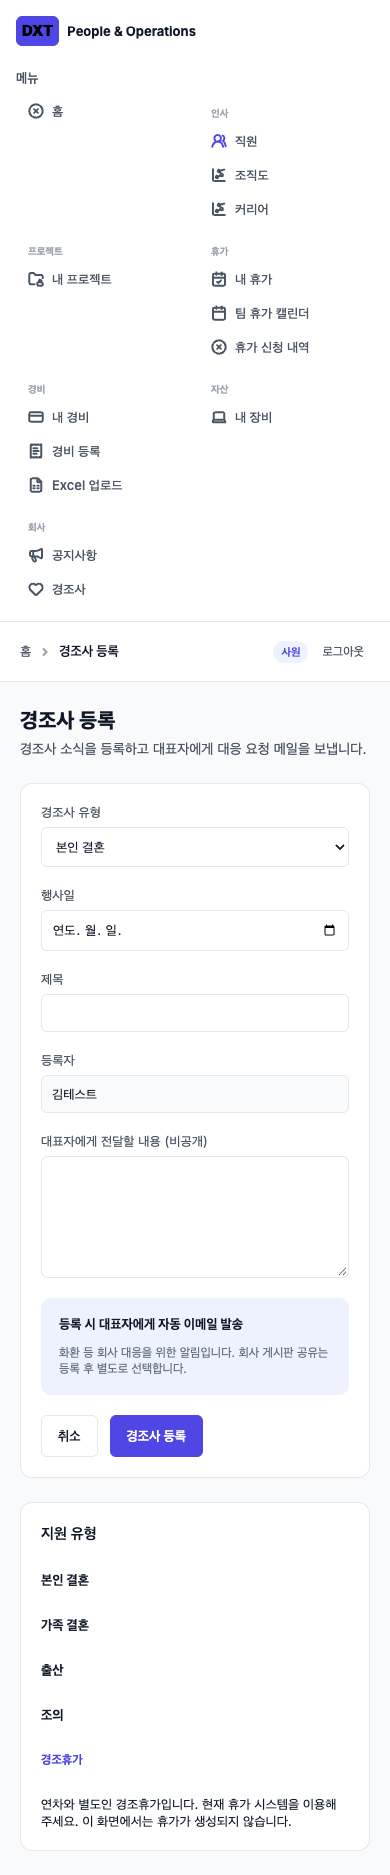
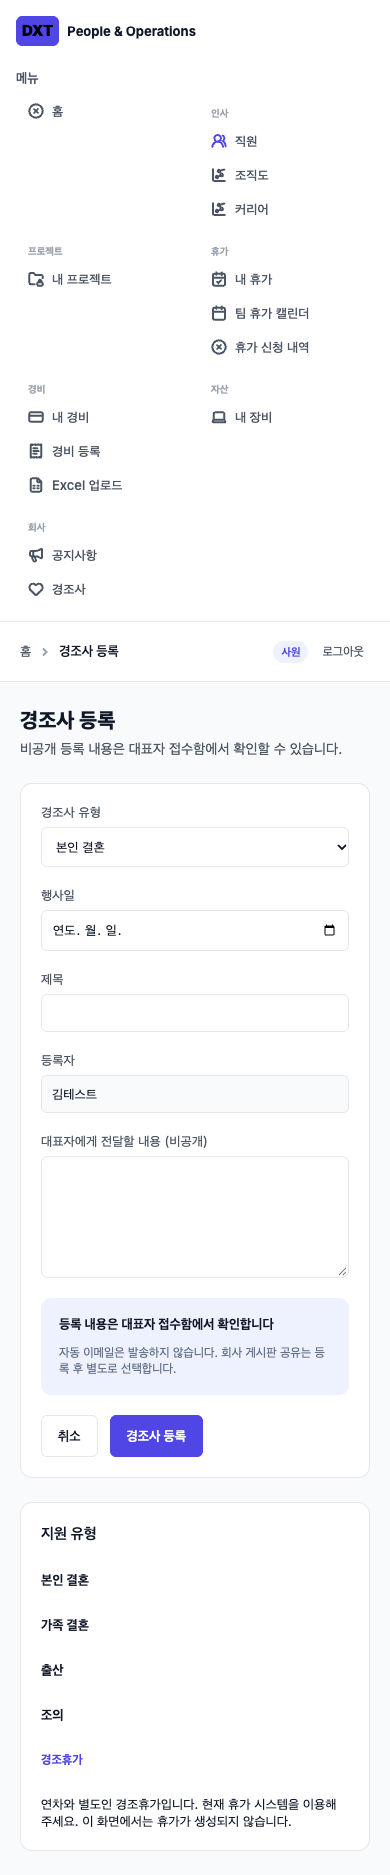
Defer automatic Gmail delivery while preserving Google login

diff --git a/src/components/operations/screens.tsx b/src/components/operations/screens.tsx
@@ -44,11 +44,10 @@ function FamilyGuide(){return <aside className="surface event-guide"><h2>지원 
 export async function FamilyScreen({id,create=false,edit=false,review=false,query,principal}:{id?:string;create?:boolean;edit?:boolean;review?:boolean;query:SearchParams;principal:Principal}){
  const people=await operationPeople(),person=(id:string)=>people.find(p=>p.id===id)?.name||'—';
  if(create||edit){const registration=id?await familyRegistration(id):undefined;const posts=registration?await familyPosts():[];const {data:own}=await(await employeeClient()).rpc('current_employee_id');if(!own) return <section className="surface empty-state"><h1>직원 정보 연결이 필요합니다</h1><p>관리자에게 계정과 직원 정보 연결을 요청해 주세요.</p></section>;
- const notification=registration?await(await employeeClient()).rpc('family_notification_status',{p_id:registration.id}):null;
- return <><Heading title={registration?'내 경조사 등록':'경조사 등록'} description="경조사 소식을 등록하고 대표자에게 대응 요청 메일을 보냅니다."/><Saved query={query}/>{registration&&<p className="asset-notice">대표자 알림: {notification?.data==='SENT'?'발송 완료':notification?.data==='REVIEW'?'발송 확인 필요 · 관리자에게 문의해 주세요':'발송 대기 · 메일 연결 상태에 따라 처리됩니다'}</p>}<div className="operations-columns"><FamilyEditor key={registration?.version||0} record={registration} name={person(own)}/><FamilyGuide/></div>{registration&&<FamilyPublication key={posts.find(p=>p.registration_id===registration.id)?.version||0} id={registration.id} post={posts.find(p=>p.registration_id===registration.id)}/>}</>;
+ return <><Heading title={registration?'내 경조사 등록':'경조사 등록'} description="비공개 등록 내용은 대표자 접수함에서 확인할 수 있습니다."/><Saved query={query}/><div className="operations-columns"><FamilyEditor key={registration?.version||0} record={registration} name={person(own)}/><FamilyGuide/></div>{registration&&<FamilyPublication key={posts.find(p=>p.registration_id===registration.id)?.version||0} id={registration.id} post={posts.find(p=>p.registration_id===registration.id)}/>}</>;
  }
  if(review){const rows=await familyRegistrations(true);if(id){const r=await familyRegistration(id,true);return <><Heading title="대표자 경조사 접수" description="회사 대응을 위한 비공개 등록 내용입니다."/><article className="surface board-detail"><Badge>{EVENT_CATEGORIES[r.category]}</Badge><h2>{r.title}</h2><p>{person(r.employee_id)} · {r.event_date}</p><div className="prose-body">{r.details}</div></article></>;}
  return <><Heading title="대표자 경조사 접수" description="등록자와 대표자만 조회할 수 있습니다."/><section className="company-board">{rows.map(r=><Link key={r.id} className="board-row" href={`/family-events/review/${r.id}`}><h2>{r.title}</h2><small>{person(r.employee_id)} · {r.event_date}</small></Link>)}{!rows.length&&<p className="empty-state">접수된 경조사가 없습니다.</p>}</section></>;}
- const posts=await familyPosts(),own=await familyRegistrations();return <><Heading title="경조사" description="경조사 소식을 등록하고 회사 구성원에게 공유합니다." href="/family-events/new" action="경조사 등록"/><aside className="asset-notice"><strong>경조사 등록 시 대표자에게 이메일이 발송됩니다.</strong><p>회사 대응을 위한 비공개 등록과 게시판 공유는 별도로 관리됩니다.</p></aside><section className="company-board family-board">{posts.length?posts.toSorted((a,b)=>b.event_date.localeCompare(a.event_date)).map(p=><article className="board-row" key={p.registration_id}><div><h2><Badge>{EVENT_CATEGORIES[p.category]}</Badge> {person(p.employee_id)} · {p.title}</h2><div className="prose-body">{p.body}</div></div><small>{p.event_date}</small></article>):<div className="empty-state"><h2>공유된 경조사 소식이 없습니다</h2></div>}</section><section className="surface family-leave"><div><h2>경조휴가 안내</h2><p className="muted">DXT 사칙에 따라 연차와 별도로 신청합니다. 현재 휴가 시스템을 이용해 주세요.</p></div><button className="button" disabled title="휴가 기능은 이번 단계에서 제공하지 않습니다">경조휴가 신청 · 준비중</button></section><section className="surface operations-form"><h2>내 등록 내역 (비공개)</h2>{own.map(r=><Link key={r.id} href={`/family-events/${r.id}/edit`}>{r.title} · {r.event_date}</Link>)}{!own.length&&<p className="muted">등록한 경조사가 없습니다.</p>}{can(principal,'FAMILY_EVENT_REVIEW')&&<Link className="button" href="/family-events/review">대표자 접수함</Link>}</section></>;
+ const posts=await familyPosts(),own=await familyRegistrations();return <><Heading title="경조사" description="경조사 소식을 등록하고 회사 구성원에게 공유합니다." href="/family-events/new" action="경조사 등록"/><aside className="asset-notice"><strong>경조사 등록 내용은 대표자 접수함에서 확인합니다.</strong><p>자동 이메일은 발송하지 않습니다. 비공개 등록과 게시판 공유는 별도로 관리됩니다.</p></aside><section className="company-board family-board">{posts.length?posts.toSorted((a,b)=>b.event_date.localeCompare(a.event_date)).map(p=><article className="board-row" key={p.registration_id}><div><h2><Badge>{EVENT_CATEGORIES[p.category]}</Badge> {person(p.employee_id)} · {p.title}</h2><div className="prose-body">{p.body}</div></div><small>{p.event_date}</small></article>):<div className="empty-state"><h2>공유된 경조사 소식이 없습니다</h2></div>}</section><section className="surface family-leave"><div><h2>경조휴가 안내</h2><p className="muted">DXT 사칙에 따라 연차와 별도로 신청합니다. 현재 휴가 시스템을 이용해 주세요.</p></div><button className="button" disabled title="휴가 기능은 이번 단계에서 제공하지 않습니다">경조휴가 신청 · 준비중</button></section><section className="surface operations-form"><h2>내 등록 내역 (비공개)</h2>{own.map(r=><Link key={r.id} href={`/family-events/${r.id}/edit`}>{r.title} · {r.event_date}</Link>)}{!own.length&&<p className="muted">등록한 경조사가 없습니다.</p>}{can(principal,'FAMILY_EVENT_REVIEW')&&<Link className="button" href="/family-events/review">대표자 접수함</Link>}</section></>;
 }
-export async function BirthdayScreen({query}:{query:SearchParams}){const current=Number(new Intl.DateTimeFormat('en',{timeZone:'Asia/Seoul',year:'numeric'}).format(new Date())),year=typeof query.year==='string'&&/^[1-9]\d{3}$/.test(query.year)&&Number(query.year)>=1900?Number(query.year):current,record=await birthdayTemplate(year);return <><Heading title="생일 메일" description="생일 당일 오전 9시에 본인에게 발송되는 축하 메일 템플릿을 관리합니다."/><Saved query={query}/><aside className="asset-notice"><strong>자동 발송 규칙</strong><p>생일 당일 오전 9시 (한국 시간) · 생일자 본인에게만 발송 · 음력 생일은 지원하지 않음</p></aside><form className="birthday-year"><label htmlFor="template-year">템플릿 연도</label><input id="template-year" name="year" type="number" min={1900} max={9999} defaultValue={year}/><button className="button">연도 선택</button></form><BirthdayEditor key={`${year}:${record?.version||0}`} year={year} record={record}/></>;}
+export async function BirthdayScreen({query}:{query:SearchParams}){const current=Number(new Intl.DateTimeFormat('en',{timeZone:'Asia/Seoul',year:'numeric'}).format(new Date())),year=typeof query.year==='string'&&/^[1-9]\d{3}$/.test(query.year)&&Number(query.year)>=1900?Number(query.year):current,record=await birthdayTemplate(year);return <><Heading title="생일 메일" description="향후 사용할 생일 메일 템플릿을 보관합니다. 현재 자동 발송은 제공하지 않습니다."/><Saved query={query}/><aside className="asset-notice"><strong>자동 발송 중지</strong><p>템플릿을 저장해도 메일은 발송되지 않습니다. 생일 정보와 접근 권한은 유지됩니다.</p></aside><form className="birthday-year"><label htmlFor="template-year">템플릿 연도</label><input id="template-year" name="year" type="number" min={1900} max={9999} defaultValue={year}/><button className="button">연도 선택</button></form><BirthdayEditor key={`${year}:${record?.version||0}`} year={year} record={record}/></>;}

diff --git a/src/components/operations/forms.tsx b/src/components/operations/forms.tsx
@@ -14,6 +14,6 @@ export function CaseControls({record}:{record:OperationCase}){const [state,actio
 export function ResignationReason({id}:{id:string}){const [revealed,setRevealed]=useState<{value?:string;version?:number;error?:string}>({}),[loading,start]=useTransition(),[state,action,pending]=useActionState(saveResignationReason.bind(null,id),{});return <section className="surface operations-form"><h2>대표자 전용 · 퇴사 사유</h2><p className="muted">열람과 수정 이력이 기록됩니다.</p>{revealed.version===undefined?<button className="button" disabled={loading} onClick={()=>start(async()=>setRevealed(await revealResignation(id)))}>퇴사 사유 열람</button>:<form action={action} className="operations-form"><input type="hidden" name="version" value={revealed.version}/><Feedback state={state}/><Field label="퇴사 사유" name="reason" state={state}>{fieldId=><textarea id={fieldId} name="reason" required maxLength={5000} defaultValue={revealed.value}/>}</Field><div className="button-row"><button className="button" type="button" onClick={()=>setRevealed({})}>숨기기</button><button className="button primary" disabled={pending}>사유 저장</button></div></form>}{revealed.error&&<p role="alert" className="form-error">{revealed.error}</p>}</section>;}
 export function ResignationUpload({id}:{id:string}){const [state,action,pending]=useActionState(uploadResignation.bind(null,id),{});return <form action={action} className="operations-form"><Feedback state={state}/><Field label="사직서 첨부" name="document" state={state}>{fieldId=><input id={fieldId} type="file" name="document" accept="application/pdf,image/png,image/jpeg" required/>}</Field><p className="muted">PDF·PNG·JPEG, 최대 10MB. 대표자만 열람할 수 있습니다.</p><button className="button primary" disabled={pending}>사직서 업로드</button></form>;}
 export function AnnouncementEditor({record}:{record?:Announcement}){const [state,action,pending]=useActionState(saveAnnouncement.bind(null,record?.id||null),{});return <form action={action} className="surface operations-form"><input type="hidden" name="version" value={record?.version||0}/><Feedback state={state}/><Field label="제목" name="title" state={state}>{id=><input id={id} name="title" required maxLength={200} defaultValue={record?.title}/>}</Field><Field label="내용" name="body" state={state}>{id=><textarea id={id} name="body" required maxLength={20000} rows={12} defaultValue={record?.body}/>}</Field><label className="check-line"><input type="checkbox" name="publish" defaultChecked={Boolean(record?.published_at)}/>회사 게시판에 게시</label><div className="button-row"><Link className="button" href="/announcements">취소</Link><button className="button primary" disabled={pending}>공지 저장</button></div></form>;}
-export function FamilyEditor({record,name}:{record?:FamilyRegistration;name:string}){const [state,action,pending]=useActionState(saveFamily.bind(null,record?.id||null),{});return <form action={action} className="surface operations-form"><input type="hidden" name="version" value={record?.version||0}/><Feedback state={state}/><Field label="경조사 유형" name="category" state={state}>{id=><select id={id} name="category" defaultValue={record?.category||'OWN_MARRIAGE'}>{Object.entries(EVENT_CATEGORIES).map(([v,l])=><option key={v} value={v}>{l}</option>)}</select>}</Field><Field label="행사일" name="event_date" state={state}>{id=><input id={id} name="event_date" type="date" required defaultValue={record?.event_date}/>}</Field><Field label="제목" name="title" state={state}>{id=><input id={id} name="title" maxLength={200} required defaultValue={record?.title}/>}</Field><Field label="등록자" name="author" state={state}>{id=><input id={id} readOnly value={name}/>}</Field><Field label="대표자에게 전달할 내용 (비공개)" name="details" state={state}>{id=><textarea id={id} name="details" maxLength={5000} required rows={6} defaultValue={record?.details}/>}</Field><aside className="asset-notice"><strong>등록 시 대표자에게 자동 이메일 발송</strong><p>화환 등 회사 대응을 위한 알림입니다. 회사 게시판 공유는 등록 후 별도로 선택합니다.</p></aside><div className="button-row"><Link className="button" href="/family-events">취소</Link><button className="button primary" disabled={pending}>{record?'등록 내용 저장':'경조사 등록'}</button></div></form>;}
+export function FamilyEditor({record,name}:{record?:FamilyRegistration;name:string}){const [state,action,pending]=useActionState(saveFamily.bind(null,record?.id||null),{});return <form action={action} className="surface operations-form"><input type="hidden" name="version" value={record?.version||0}/><Feedback state={state}/><Field label="경조사 유형" name="category" state={state}>{id=><select id={id} name="category" defaultValue={record?.category||'OWN_MARRIAGE'}>{Object.entries(EVENT_CATEGORIES).map(([v,l])=><option key={v} value={v}>{l}</option>)}</select>}</Field><Field label="행사일" name="event_date" state={state}>{id=><input id={id} name="event_date" type="date" required defaultValue={record?.event_date}/>}</Field><Field label="제목" name="title" state={state}>{id=><input id={id} name="title" maxLength={200} required defaultValue={record?.title}/>}</Field><Field label="등록자" name="author" state={state}>{id=><input id={id} readOnly value={name}/>}</Field><Field label="대표자에게 전달할 내용 (비공개)" name="details" state={state}>{id=><textarea id={id} name="details" maxLength={5000} required rows={6} defaultValue={record?.details}/>}</Field><aside className="asset-notice"><strong>등록 내용은 대표자 접수함에서 확인합니다</strong><p>자동 이메일은 발송하지 않습니다. 회사 게시판 공유는 등록 후 별도로 선택합니다.</p></aside><div className="button-row"><Link className="button" href="/family-events">취소</Link><button className="button primary" disabled={pending}>{record?'등록 내용 저장':'경조사 등록'}</button></div></form>;}
 export function FamilyPublication({id,post}:{id:string;post?:FamilyPost}){const [state,action,pending]=useActionState(publishFamily.bind(null,id),{});return <form action={action} className="surface operations-form"><h2>회사 게시판 공유 (선택)</h2><p className="muted">아래 내용만 회사 구성원에게 공개됩니다. 비공개 등록 내용은 자동으로 복사되지 않습니다.</p><input type="hidden" name="version" value={post?.version||0}/><Feedback state={state}/><Field label="게시판 제목" name="board_title" state={state}>{fieldId=><input id={fieldId} name="board_title" maxLength={200} defaultValue={post?.title}/>}</Field><Field label="게시판 내용" name="board_body" state={state}>{fieldId=><textarea id={fieldId} name="board_body" maxLength={5000} rows={5} defaultValue={post?.body}/>}</Field><div className="button-row"><button className="button primary" name="publish" value="yes" disabled={pending}>게시판에 공유</button>{post&&<button className="button" name="publish" value="no" disabled={pending}>게시 내리기</button>}</div></form>;}
 export function BirthdayEditor({year,record}:{year:number;record?:BirthdayTemplate}){const [state,action,pending]=useActionState(saveBirthdayTemplate,{}),[subject,setSubject]=useState(record?.subject||DEFAULT_SUBJECT),[body,setBody]=useState(record?.body||DEFAULT_BODY);return <div className="operations-columns birthday-columns"><form id="birthday-template" action={action} className="surface operations-form"><input type="hidden" name="year" value={year}/><input type="hidden" name="version" value={record?.version||0}/><Feedback state={state}/><Field label="메일 제목" name="subject" state={state}>{id=><input id={id} name="subject" required maxLength={200} value={subject} onChange={e=>setSubject(e.target.value)}/>}</Field><Field label="메일 본문" name="body" state={state}>{id=><textarea id={id} name="body" required maxLength={10000} rows={12} value={body} onChange={e=>setBody(e.target.value)}/>}</Field><p className="muted">사용 가능 변수: {'{{name}}, {{birthday}}'} (월-일)</p><button className="button primary" disabled={pending}>템플릿 저장</button></form><aside className="surface mail-preview"><h2>메일 미리보기</h2><p className="muted">To. birthday@example.test · 미리보기용 예시</p><h3>{renderTemplate(subject,'김서연','10-05')}</h3><div className="prose-body">{renderTemplate(body,'김서연','10-05')}</div></aside></div>;}

diff --git a/tests/e2e/operations.spec.ts b/tests/e2e/operations.spec.ts
@@ -21,13 +21,13 @@ test('CEO audited reveal and private file upload/download; Admin finishes despit
 test('announcements draft and explicit publication; registration and board content remain separate',async({page,context})=>{
  await loginAs(context,'admin');await page.goto('/announcements/new');await page.getByLabel('제목',{exact:true}).fill('Browser announcement');await page.getByLabel('내용',{exact:true}).fill('<script>visible text only</script>');await page.getByRole('button',{name:'공지 저장'}).click();await expect(page.getByRole('status')).toHaveText('저장했습니다.');const announcement=new URL(page.url()).pathname;
  await loginAs(context,'employee');expect((await page.goto(announcement))!.status()).toBe(404);await loginAs(context,'admin');await page.goto(announcement+'/edit');await page.getByLabel('회사 게시판에 게시').check();await page.getByRole('button',{name:'공지 저장'}).click();await expect(page.getByRole('status')).toHaveText('저장했습니다.');await loginAs(context,'employee');await page.goto(announcement);await expect(page.getByText('<script>visible text only</script>',{exact:true})).toBeVisible();expect((await page.goto(announcement+'/edit'))!.status()).toBe(404);
- await page.goto('/family-events/new');await page.getByLabel('행사일').fill('2026-10-10');await page.getByLabel('제목',{exact:true}).fill('PRIVATE browser event');await page.getByLabel('대표자에게 전달할 내용 (비공개)').fill('PRIVATE browser venue and contact');await page.getByRole('button',{name:'경조사 등록',exact:true}).click();await expect(page.getByRole('status')).toHaveText('저장했습니다.');const own=new URL(page.url()).pathname;await expect(page.getByText(/대표자 알림: 발송 대기/)).toBeVisible();await expect(page.getByLabel('게시판 제목')).toHaveValue('');await expect(page.getByLabel('게시판 내용')).toHaveValue('');await page.getByLabel('게시판 제목').fill('Public browser event');await page.getByLabel('게시판 내용').fill('Public congratulations');await page.getByRole('button',{name:'게시판에 공유',exact:true}).click();await expect(page.locator('form').filter({has:page.getByLabel('게시판 제목')}).locator('input[name=version]')).toHaveValue('1');
+ await page.goto('/family-events/new');await page.getByLabel('행사일').fill('2026-10-10');await page.getByLabel('제목',{exact:true}).fill('PRIVATE browser event');await page.getByLabel('대표자에게 전달할 내용 (비공개)').fill('PRIVATE browser venue and contact');await page.getByRole('button',{name:'경조사 등록',exact:true}).click();await expect(page.getByRole('status')).toHaveText('저장했습니다.');const own=new URL(page.url()).pathname;await expect(page.getByText(/자동 이메일은 발송하지 않습니다/)).toBeVisible();await expect(page.getByLabel('게시판 제목')).toHaveValue('');await expect(page.getByLabel('게시판 내용')).toHaveValue('');await page.getByLabel('게시판 제목').fill('Public browser event');await page.getByLabel('게시판 내용').fill('Public congratulations');await page.getByRole('button',{name:'게시판에 공유',exact:true}).click();await expect(page.locator('form').filter({has:page.getByLabel('게시판 제목')}).locator('input[name=version]')).toHaveValue('1');
  await loginAs(context,'expense');const board=await page.goto('/family-events');expect(await board!.text()).not.toContain('PRIVATE browser');await expect(page.getByText('Public congratulations',{exact:true})).toBeVisible();expect((await page.goto(own))!.status()).toBe(404);
  await loginAs(context,'employee');await page.goto(own);await page.getByRole('button',{name:'게시 내리기'}).click();await expect(page.getByLabel('게시판 제목')).toHaveValue('');await page.goto('/family-events');await expect(page.getByText('Public congratulations',{exact:true})).toHaveCount(0);
 });
-test('birthday yearly template preview, saved content and secured cron fail safely without Gmail credentials',async({page,context})=>{
- await loginAs(context,'admin');await page.goto('/admin/settings/birthday-email?year=2027');await page.getByLabel('메일 제목').fill('{{name}}님, 생일 축하합니다');await page.getByLabel('메일 본문').fill('{{birthday}} 오늘 즐거운 하루 보내세요.');await expect(page.locator('.mail-preview')).toContainText('김서연님, 생일 축하합니다');await expect(page.locator('.mail-preview')).toContainText('10-05 오늘');await page.getByRole('button',{name:'템플릿 저장'}).click();await expect(page.locator('#birthday-template input[name=version]')).toHaveValue('1');await page.reload();await expect(page.getByLabel('메일 제목')).toHaveValue('{{name}}님, 생일 축하합니다');
- expect((await context.request.get('/api/cron/company-mail')).status()).toBe(401);expect((await context.request.get('/api/cron/company-mail?secret=test-cron-secret-at-least-32-characters-long')).status()).toBe(401);const result=await context.request.get('/api/cron/company-mail',{headers:{Authorization:'Bearer test-cron-secret-at-least-32-characters-long'}});expect(result.status()).toBe(503);expect(await result.text()).not.toContain('PRIVATE');
+test('birthday yearly template preview, saved content and retired cron stay inactive without Gmail credentials',async({page,context})=>{
+ await loginAs(context,'admin');await page.goto('/admin/settings/birthday-email?year=2027');await expect(page.getByText('자동 발송 중지',{exact:true})).toBeVisible();await page.getByLabel('메일 제목').fill('{{name}}님, 생일 축하합니다');await page.getByLabel('메일 본문').fill('{{birthday}} 오늘 즐거운 하루 보내세요.');await expect(page.locator('.mail-preview')).toContainText('김서연님, 생일 축하합니다');await expect(page.locator('.mail-preview')).toContainText('10-05 오늘');await page.getByRole('button',{name:'템플릿 저장'}).click();await expect(page.locator('#birthday-template input[name=version]')).toHaveValue('1');await page.reload();await expect(page.getByLabel('메일 제목')).toHaveValue('{{name}}님, 생일 축하합니다');
+ expect((await context.request.get('/api/cron/company-mail')).status()).toBe(410);expect((await context.request.get('/api/cron/company-mail?secret=test-cron-secret-at-least-32-characters-long')).status()).toBe(410);const result=await context.request.get('/api/cron/company-mail',{headers:{Authorization:'Bearer test-cron-secret-at-least-32-characters-long'}});expect(result.status()).toBe(410);expect(await result.text()).not.toContain('PRIVATE');
 });
 test('private operations deny forged URLs, RSC, documents, RPCs and replayed server actions',async({page,context})=>{
  for(const role of ['employee','leader','expense','it','division','admin','designated']){

diff --git a/tests/operations.test.ts b/tests/operations.test.ts
@@ -73,7 +73,7 @@ function mailStore(db:Awaited<ReturnType<typeof operationsDatabase>>):MailStore{
 const config={clientId:'test',clientSecret:'test',refreshToken:'test',sender:'shared@example.test'};
 const fakeMail=(sent:string[],fail=false):typeof fetch=>async(input,init)=>{if(String(input).includes('oauth2'))return Response.json({access_token:'test-token'});const raw=JSON.parse(String(init?.body)).raw;sent.push(Buffer.from(raw,'base64url').toString());if(fail)throw new Error('Ambiguous network timeout');return Response.json({id:'test-message-'+sent.length});};
 
-test('birthday/calendar scope, 09:00 timing, CEO-only family routing and duplicate job execution',async()=>{const db=await operationsDatabase();try{
+test('birthday/calendar scope, 09:00 timing, CEO-only family routing and duplicate job execution',async()=>{const db=await operationsDatabase({dormantMail:true});try{
  await db.exec("create or replace function company_mail_now() returns timestamptz language sql stable as $$select '2026-01-02T00:00:00Z'::timestamptz$$;");
  await asUser(db,'admin',tx=>tx.query("select save_birthday_template(2026,'Happy {{name}}','Birthday {{birthday}}',0)"));
  for(const role of ['employee','it','expense','leader','division']){
@@ -93,7 +93,7 @@ test('birthday/calendar scope, 09:00 timing, CEO-only family routing and duplica
  assert.equal((await asUser(db,'employee',tx=>tx.query<{value:string}>('select family_notification_status($1) value',[familyId]))).rows[0].value,'SENT');
  }finally{await db.close();}});
 
-test('mail unavailable stays pending; concurrent claims, ambiguous sends and provider failures cannot duplicate',async()=>{const db=await operationsDatabase();try{
+test('mail unavailable stays pending; concurrent claims, ambiguous sends and provider failures cannot duplicate',async()=>{const db=await operationsDatabase({dormantMail:true});try{
  const store=mailStore(db),sent:string[]=[];
  assert.equal((await dispatchMail(store,undefined,fakeMail(sent),familyId)).configured,false);assert.equal(sent.length,0);
  assert.equal((await db.query<{state:string}>('select state from company_mail_delivery')).rows[0].state,'PENDING');
@@ -107,7 +107,7 @@ test('mail unavailable stays pending; concurrent claims, ambiguous sends and pro
  const claim=claims.find(Boolean)!;await store.finish(claim,'message-2',false);await assert.rejects(store.finish(claim,'message-2',false));
  }finally{await db.close();}});
 
-test('scheduler is not early, excludes inactive/future/non-birthday recipients and indexes only month/day',async()=>{const db=await operationsDatabase();try{
+test('scheduler is not early, excludes inactive/future/non-birthday recipients and indexes only month/day',async()=>{const db=await operationsDatabase({dormantMail:true});try{
  await asUser(db,'admin',tx=>tx.query("select save_birthday_template(2026,'Hello {{name}}','Birthday {{birthday}}',0)"));
  await db.exec("create or replace function company_mail_now() returns timestamptz language sql stable as $$select '2026-01-01T23:59:00Z'::timestamptz$$;");
  await asService(db,tx=>tx.query('select enqueue_company_mail(null,true)'));assert.equal((await db.query("select * from company_mail_delivery where kind='BIRTHDAY'")).rows.length,0);
@@ -149,7 +149,7 @@ test('long Unicode mail subjects preserve text with bounded MIME headers',()=>{
 });
 
 
-test('private CEO mail ignores Admin-editable profile addresses and requires verified auth identity',async()=>{const db=await operationsDatabase();try{
+test('private CEO mail ignores Admin-editable profile addresses and requires verified auth identity',async()=>{const db=await operationsDatabase({dormantMail:true});try{
  const profile={name:'대표자',company_email:'redirected@example.test',title:'운영',hire_date:'2025-01-01',employment_status:'ACTIVE',roles:['EMPLOYEE']};
  await asUser(db,'admin',tx=>tx.query('select save_employee_with_birthday($1,$2,1,null,false,null,null,null)',[ceoEmployeeId,profile]));
  await assert.rejects(asUser(db,'admin',tx=>tx.query('update auth.users set email=$1 where id=$2',[profile.company_email,idFor('ceo')])));
@@ -162,7 +162,7 @@ test('private CEO mail ignores Admin-editable profile addresses and requires ver
  }finally{await db.close();}});
 
 
-test('birthday transport uses verified identity despite forged Admin profile fields',async()=>{const db=await operationsDatabase();try{
+test('birthday transport uses verified identity despite forged Admin profile fields',async()=>{const db=await operationsDatabase({dormantMail:true});try{
  await db.exec("create or replace function company_mail_now() returns timestamptz language sql stable as $$select '2026-01-02T00:00:00Z'::timestamptz$$;");
  await asUser(db,'admin',tx=>tx.query("select save_birthday_template(2026,'Happy {{name}}','Birthday {{birthday}}',0)"));
  const profile={name:'김테스트',company_email:'attacker@example.test',email:'attacker@example.test',auth_user_id:idFor('admin'),title:'개발자',hire_date:'2025-01-02',employment_status:'ACTIVE',roles:['EMPLOYEE']};
@@ -177,7 +177,7 @@ test('birthday transport uses verified identity despite forged Admin profile fie
  assert.ok(sent.every(m=>!m.includes(profile.company_email)));
  }finally{await db.close();}});
 
-test('ineligible birthday identities are cancelled before any transport claim',async()=>{const db=await operationsDatabase();try{
+test('ineligible birthday identities are cancelled before any transport claim',async()=>{const db=await operationsDatabase({dormantMail:true});try{
  await db.exec("create or replace function company_mail_now() returns timestamptz language sql stable as $$select '2026-01-02T00:00:00Z'::timestamptz$$;");
  await asUser(db,'admin',tx=>tx.query("select save_birthday_template(2026,'Happy {{name}}','Birthday {{birthday}}',0)"));
  // Isolate birthdays; mutate eligibility after enqueue to cover stale pending deliveries.

diff --git a/tests/operations-fixture.ts b/tests/operations-fixture.ts
@@ -11,7 +11,10 @@ export const familyId='a3000000-0000-4000-8000-000000000001',otherFamilyId='a300
 export const birthdayDeliveryEmail='verified-employee@example.test';
 export const ceoDeliveryEmail='verified-ceo@example.test';
 export const resignationReason='CEO-ONLY resignation reason fixture',letter='%PDF-1.4 CEO-ONLY LETTER';
-export async function operationsDatabase(){const db=await assetDatabase();await db.exec("alter table auth.users add column email text, add column email_confirmed_at timestamptz;");await db.query('update auth.users set email=$1,email_confirmed_at=now() where id=$2',[ceoDeliveryEmail,idFor('ceo')]);await db.query('update auth.users set email=$1,email_confirmed_at=now() where id=$2',[birthdayDeliveryEmail,idFor('employee')]);await db.exec(readFileSync('supabase/migrations/202610010008_operations.sql','utf8'));await db.exec(readFileSync('supabase/migrations/202610040009_verified_ceo_mail.sql','utf8'));await db.exec(readFileSync('supabase/migrations/202610040010_verified_mail_recipients.sql','utf8'));await db.exec('alter role service_role bypassrls; grant usage on schema storage to service_role; grant select on storage.objects to service_role;');
+export async function operationsDatabase(options:{dormantMail?:boolean}={}){const db=await assetDatabase();await db.exec("alter table auth.users add column email text, add column email_confirmed_at timestamptz;");await db.query('update auth.users set email=$1,email_confirmed_at=now() where id=$2',[ceoDeliveryEmail,idFor('ceo')]);await db.query('update auth.users set email=$1,email_confirmed_at=now() where id=$2',[birthdayDeliveryEmail,idFor('employee')]);await db.exec(readFileSync('supabase/migrations/202610010008_operations.sql','utf8'));await db.exec(readFileSync('supabase/migrations/202610040009_verified_ceo_mail.sql','utf8'));await db.exec(readFileSync('supabase/migrations/202610040010_verified_mail_recipients.sql','utf8'));await db.exec(readFileSync('supabase/migrations/202610060011_defer_automatic_mail.sql','utf8'));
+ // Explicit isolated-test reactivation keeps dormant recipient/idempotency regressions exercised.
+ if(options.dormantMail)await db.exec('grant execute on function public.enqueue_company_mail(uuid,boolean),public.claim_company_mail(uuid) to service_role;');
+ await db.exec('alter role service_role bypassrls; grant usage on schema storage to service_role; grant select on storage.objects to service_role;');
  await db.transaction(async tx=>{for(const [id,name,auth] of [[departingId,'퇴사예정자',null],[ceoEmployeeId,'대표자',idFor('ceo')]]){await tx.query("insert into employee(id,name,company_email,title,hire_date,auth_user_id) values($1,$2,$3,'운영','2025-01-01',$4)",[id,name,`${id}@example.test`,auth]);await tx.query("insert into employee_role values($1,'EMPLOYEE')",[id]);}});
  await asUser(db,'admin',async tx=>{await tx.query("select start_operation($1,'onboarding',$2,null)",[onboardingId,personId]);await tx.query("select start_operation($1,'offboarding',$2,expense_today())",[offboardingId,departingId]);await tx.query('select save_announcement($1,$2,$3,true,0)',[announcementId,'2026년 하반기 워크숍 일정 안내','10월 워크숍 일정과 준비사항을 안내드립니다.']);await tx.query('select save_announcement($1,$2,$3,false,0)',[draftId,'ADMIN-ONLY draft title','ADMIN-ONLY unpublished body']);});
  await asUser(db,'it',tx=>tx.query('select save_asset($1,$2,0)',['90000000-0000-4000-8000-000000000003',{type:'MONITOR',manufacturer:'Dell',model:'미반납 모니터',serial_number:'OFFBOARD-UNRETURNED',status:'IN_USE',current_holder_id:departingId}]));

diff --git a/src/app/actions/operations.ts b/src/app/actions/operations.ts
@@ -8,7 +8,6 @@ import { isUuid,versionFrom,ValidationError } from '@/lib/employees/validation';
 import { encryptHr,decryptHr } from '@/lib/employees/crypto-server';
 import { field,uuid,dateInput,taskInput,familyInput,templateInput } from '@/lib/operations/validation';
 import { operationCapability,type OperationKind } from '@/lib/operations/types';
-import { runCompanyMail } from '@/lib/operations/mail-server';
 import type { FormState } from '@/lib/employees/types';
 function assertId(id:string){if(!isUuid(id))notFound();}
 function assertKind(kind:string):asserts kind is OperationKind{if(kind!=='onboarding'&&kind!=='offboarding')notFound();}
@@ -26,8 +25,7 @@ export async function uploadResignation(id:string,_state:FormState,form:FormData
  }catch(error){return failure(error);}revalidatePath('/admin/offboarding/'+id);redirect(`/admin/offboarding/${id}?saved=1`);}
 export async function saveAnnouncement(id:string|null,_state:FormState,form:FormData):Promise<FormState>{await requireCapability('ANNOUNCEMENT_MANAGE');if(id)assertId(id);const recordId=id||randomUUID();try{await rpc('save_announcement',{p_id:recordId,p_title:field(form,'title',200),p_body:field(form,'body',20000),p_publish:form.get('publish')==='on',p_version:versionFrom(form)});}catch(error){return failure(error);}revalidatePath('/announcements');redirect(`/announcements/${recordId}?saved=1`);}
 export async function saveFamily(id:string|null,_state:FormState,form:FormData):Promise<FormState>{await requireCapability('EMPLOYEE_ACCESS');if(id)assertId(id);const recordId=id||randomUUID();try{await rpc('save_family_registration',{p_id:recordId,...familyInput(form),p_version:versionFrom(form)});}catch(error){return failure(error);}
- // Registration stays durable if mail credentials are absent. No private input is logged.
- if(!id)try{await runCompanyMail(recordId);}catch{/* Cron retries only unclaimed pending notifications. */}
+ // Issue #15: registration is independent of deferred automatic mail.
  revalidatePath('/family-events');redirect(`/family-events/${recordId}/edit?saved=1`);
 }
 export async function publishFamily(id:string,_state:FormState,form:FormData):Promise<FormState>{await requireCapability('EMPLOYEE_ACCESS');assertId(id);const publish=form.get('publish')==='yes';try{await rpc('publish_family_post',{p_id:id,p_title:field(form,'board_title',200,publish),p_body:field(form,'board_body',5000,publish),p_publish:publish,p_version:versionFrom(form)});}catch(error){return failure(error);}revalidatePath('/family-events');redirect(`/family-events/${id}/edit?saved=1`);}

diff --git a/tests/deferred-mail.test.ts b/tests/deferred-mail.test.ts
@@ -1,0 +1,35 @@
+import test from 'node:test';
+import assert from 'node:assert/strict';
+import { readFileSync } from 'node:fs';
+import { execFileSync } from 'node:child_process';
+import { operationsDatabase,asService,familyId } from './operations-fixture';
+import { asUser } from './domain-fixture';
+
+test('active schema rejects mail enqueue/claim even with service credentials and preserves registrations',async()=>{
+ const db=await operationsDatabase();try{
+  for(const sql of ['select enqueue_company_mail(null,true)','select claim_company_mail(null)']){
+   await assert.rejects(asService(db,tx=>tx.query(sql)),/permission denied/);
+   for(const role of ['employee','admin','ceo'])await assert.rejects(asUser(db,role,tx=>tx.query(sql)),/permission denied/);
+  }
+  assert.equal((await db.query('select * from company_mail_delivery')).rows.length,0);
+  assert.equal((await db.query<{notification_queued:boolean}>('select notification_queued from family_registration where id=$1',[familyId])).rows[0].notification_queued,false);
+  assert.equal((await asUser(db,'ceo',tx=>tx.query('select * from family_registration'))).rows.length,2);
+ }finally{await db.close();}
+});
+
+test('retired worker and endpoint never touch credentials, network or queues even when configured',()=>{
+ const script=`
+ import assert from 'node:assert/strict';
+ import {runCompanyMail} from './src/lib/operations/mail-server.ts';
+ import {GET} from './src/app/api/cron/company-mail/route.ts';
+ globalThis.fetch=async()=>{throw new Error('Unexpected network access');};
+ for(const configured of [false,true]){
+  for(const key of ['GMAIL_CLIENT_ID','GMAIL_CLIENT_SECRET','GMAIL_REFRESH_TOKEN','GMAIL_SENDER','CRON_SECRET','SUPABASE_SERVICE_ROLE_KEY'])
+   process.env[key]=configured?'synthetic-credential': '';
+  assert.deepEqual(await runCompanyMail(),{sent:0,uncertain:0,configured:false,disabled:true});
+  assert.equal((await runCompanyMail('a3000000-0000-4000-8000-000000000001')).disabled,true);
+  const response=await GET();assert.equal(response.status,410);assert.equal((await response.json()).disabled,true);
+ }`;
+ execFileSync(process.execPath,['--conditions=react-server','--import','tsx','--input-type=module','-e',script]);
+ assert.equal(JSON.parse(readFileSync('vercel.json','utf8')).crons,undefined);
+});

diff --git a/src/lib/operations/mail-server.ts b/src/lib/operations/mail-server.ts
@@ -1,7 +1,10 @@
 import 'server-only';
 import { operationsService } from './service';
 import { dispatchMail,type MailClaim,type MailConfig,type MailStore } from './mail';
+// Deliberate code-level stop: credentials/environment flags cannot reactivate v1 mail.
+const COMPANY_MAIL_ACTIVE=false;
 export async function runCompanyMail(familyId?:string){
+ if(!COMPANY_MAIL_ACTIVE)return {sent:0,uncertain:0,configured:false,disabled:true};
  const client=operationsService();
  const rpc=async(name:string,args:Record<string,unknown>)=>{const {data,error}=await client.rpc(name,args);if(error)throw new Error('Mail delivery state unavailable');return data;};
  const store:MailStore={enqueue:async id=>{await rpc('enqueue_company_mail',{p_family_only:id||null,p_birthdays:!id});},claim:async id=>await rpc('claim_company_mail',{p_family_only:id||null}) as MailClaim|null,finish:async(mail,id,uncertain)=>{await rpc('finish_company_mail',{p_id:mail.id,p_token:mail.token,p_message_id:id,p_uncertain:uncertain});}};

diff --git a/src/app/api/cron/company-mail/route.ts b/src/app/api/cron/company-mail/route.ts
@@ -1,9 +1,5 @@
-import { cronAuthorized } from '@/lib/operations/mail';
-import { runCompanyMail } from '@/lib/operations/mail-server';
+// Issue #15: retained tombstone for stale schedules; never loads credentials or runs a worker.
 export const dynamic='force-dynamic';
-export const maxDuration=300;
-export async function GET(request:Request){
- const headers={'Cache-Control':'no-store'};
- if(!cronAuthorized(request.headers.get('authorization'),process.env.CRON_SECRET))return Response.json({error:'Unauthorized'},{status:401,headers});
- try{const result=await runCompanyMail();return Response.json(result,{status:result.configured&&!result.uncertain?200:503,headers});}catch{return Response.json({error:'Mail service unavailable'},{status:503,headers});}
+export async function GET(){
+ return Response.json({disabled:true,reason:'Automatic company mail is deferred'},{status:410,headers:{'Cache-Control':'no-store'}});
 }

diff --git a/docs/ISSUE_15_DELIVERY.md b/docs/ISSUE_15_DELIVERY.md
@@ -1,0 +1,35 @@
+# Issue #15 — defer automatic Gmail delivery
+
+Implemented from main `b11f13b` and [Issue #15](https://github.com/Naeun-Ouh/dxt-hr/issues/15), which had no comments at implementation time.
+
+## Current operation
+
+Google OAuth / Supabase Auth login, callback, membership and role checks are unchanged. Gmail send credentials are separate from Google login and are not required.
+
+Family registration still saves private content for its owner and CEO inbox; optional public board publication remains separate. Saving no longer invokes or queues mail, and the UI no longer displays send/pending status. Birthday data encryption, month/day indexing, access controls and editable saved templates remain. The template screen explicitly says automatic delivery is stopped and saving does not send mail.
+
+## Delivery disabled at each entry point
+
+- `vercel.json` has no cron schedule.
+- `/api/cron/company-mail` always returns 410 with no-store, even with an old valid bearer secret. It never reads credentials or invokes the worker.
+- `runCompanyMail` returns a disabled result before creating a service client or reading Gmail credentials. Its code-level stop cannot be switched on through environment variables.
+- Migration `202610060011_defer_automatic_mail.sql` revokes enqueue/claim execution from public, anonymous, authenticated and service roles, including stale workers. The database owner remains a trusted migration administrator.
+- Existing delivery rows and function bodies are preserved. No pending work is drained or reset. The service-only finish function remains for reconciling already claimed work; it cannot yield a sendable payload.
+
+The prior verified Auth recipient checks, CEO role enforcement, authorization, RLS, encrypted resignation reasons and private document download protections remain intact. Dormant transport tests use an explicitly re-enabled, isolated test database and fake transport; normal/browser fixtures apply the disabled production grants.
+
+## Rollout
+
+1. Apply all migrations through `202610060011_defer_automatic_mail.sql` before deploying this revision, blocking older workers from making new claims.
+2. Deploy the revision without company-mail cron. Check the deployed Vercel project for any old/manual company-mail schedule and remove it; stale requests to the new endpoint receive 410.
+3. Do not provision `GMAIL_CLIENT_ID`, `GMAIL_CLIENT_SECRET`, `GMAIL_REFRESH_TOKEN`, `GMAIL_SENDER` or `CRON_SECRET` for current v1. Existing values cannot activate the guarded worker. Retain Supabase Google-provider settings, application origin, encryption keys and the service key needed by the private document proxy.
+4. A mail attempt already in flight before shutdown cannot be recalled. Retain delivery history for reconciliation; never blindly reset SENDING/UNKNOWN. Existing PENDING work stays dormant.
+5. Future reactivation requires a separately reviewed code change and migration, verified-recipient regressions, explicit handling of historical registrations/backlog, staging verification and a deliberate new schedule. Adding credentials alone is insufficient.
+
+The historical Phase 7 Gmail setup and birthday backfill are not current rollout prerequisites. No live infrastructure or real Gmail messages were used for this change.
+
+## Verification
+
+Lint, 49 unit/database tests, production build, typecheck and 42 browser tests. New regressions cover service-role enqueue/claim denial, preserved private registration, and direct worker/endpoint calls with absent and populated credentials without network access. Existing recipient-integrity, idempotency, ownership/RLS and Google OAuth PKCE browser regressions remain.
+
+Updated screenshots: Phase 7 family board, registration (desktop/mobile), and birthday template show the deferred delivery wording. Existing Figma layout is preserved; Issue #15 supersedes the original automatic-mail copy.

diff --git a/README.md b/README.md
@@ -12,7 +12,7 @@ Internal HR & Operations system for DXT.
 
 ## Product scope
 
-DXT People & Operations consolidates employee, organization, project assignment, career, leave, expense, equipment, Windows license, onboarding/offboarding, announcements, family events, and selected Gmail automation workflows.
+DXT People & Operations consolidates employee, organization, project assignment, career, leave, expense, equipment, Windows license, onboarding/offboarding, announcements, and family events. Google OAuth login remains required; automatic Gmail delivery is deferred.
 
 This repository is intentionally implementation-first:
 - do not invent HR policies,
@@ -81,4 +81,4 @@ Apply migrations `202609300004_projects.sql` and `202609300005_team_career_read.
 
 ## Phase 7 company operations setup
 
-Apply `202610010008_operations.sql`, `202610040009_verified_ceo_mail.sql`, and `202610040010_verified_mail_recipients.sql` in order after Phase 6. Configure the server-only operations service key, cron secret and shared Gmail OAuth settings, then backfill the minimal birthday calendar for existing encrypted DOBs. See [Phase 7 delivery and deployment](docs/PHASE_7_DELIVERY.md) for routes, CEO-only document access, pending/uncertain email behavior, setup order and screenshot evidence. Leave remains deferred.
+Apply all migrations through `202610060011_defer_automatic_mail.sql`. Google OAuth / Supabase Auth login stays unchanged. Keep the server-only service key for the private document proxy; Gmail OAuth and cron credentials are not required. Family registration, CEO inbox, public board, birthday privacy and saved templates remain available, but no automatic mail is queued, claimed or sent and no company-mail cron is configured. See [current v1 scope and rollout](docs/ISSUE_15_DELIVERY.md) and [historical Phase 7 implementation](docs/PHASE_7_DELIVERY.md).

diff --git a/docs/PHASE_7_DELIVERY.md b/docs/PHASE_7_DELIVERY.md
@@ -1,5 +1,8 @@
 # Phase 7 delivery — Issue #7
 
+> **Current v1 scope (Issue #15):** automatic birthday/family-event Gmail delivery is deferred. Google OAuth login remains unchanged. The mail descriptions below document the original implementation, not current deployment requirements. Follow [Issue #15 rollout](ISSUE_15_DELIVERY.md); do not configure Gmail credentials or the historical cron.
+
+
 Implemented from latest main (`12a3f40`) and the [latest Issue #7 comment](https://github.com/Naeun-Ouh/dxt-hr/issues/7#issuecomment-5932954835). Read `AGENTS.md`, Phase 7 context and all required product, business, permissions, data, routes, UI, principles and roadmap documents before implementation.
 
 ## Workflows and routes
